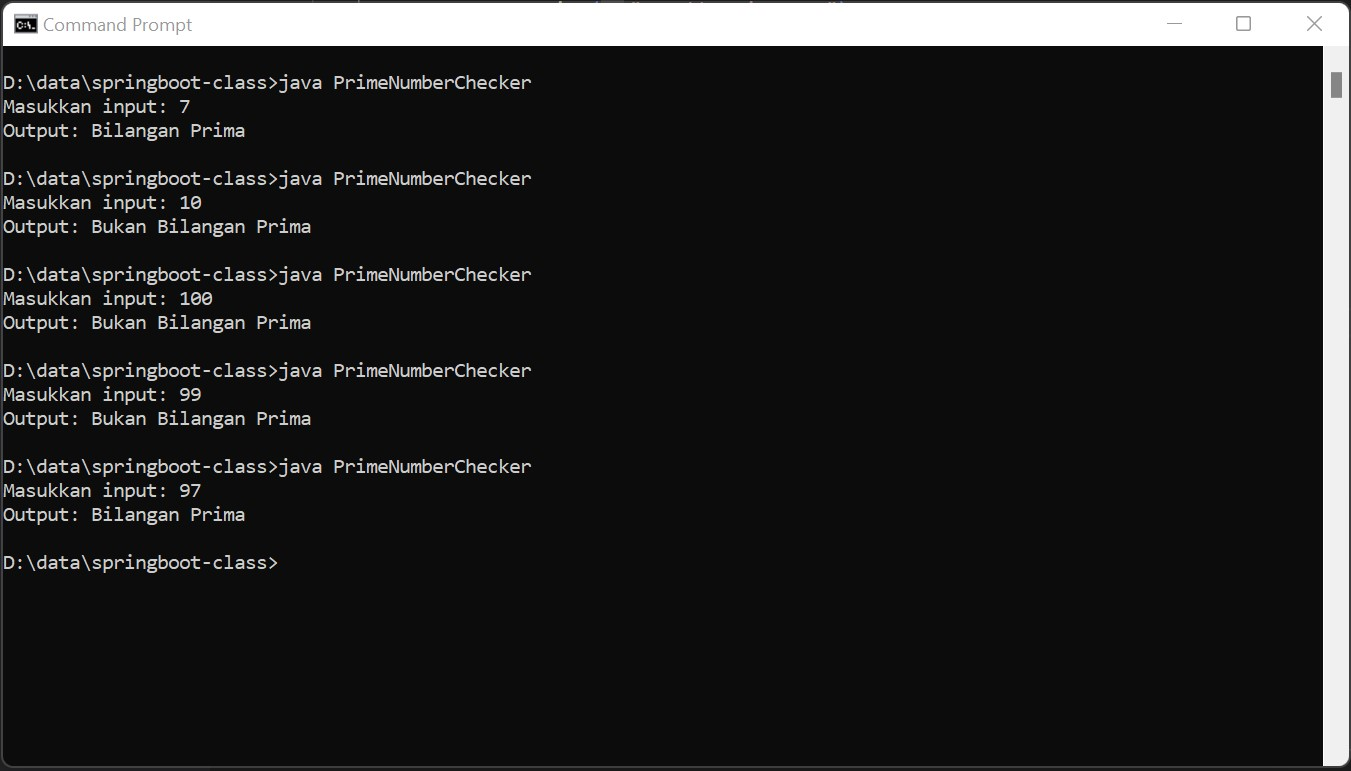
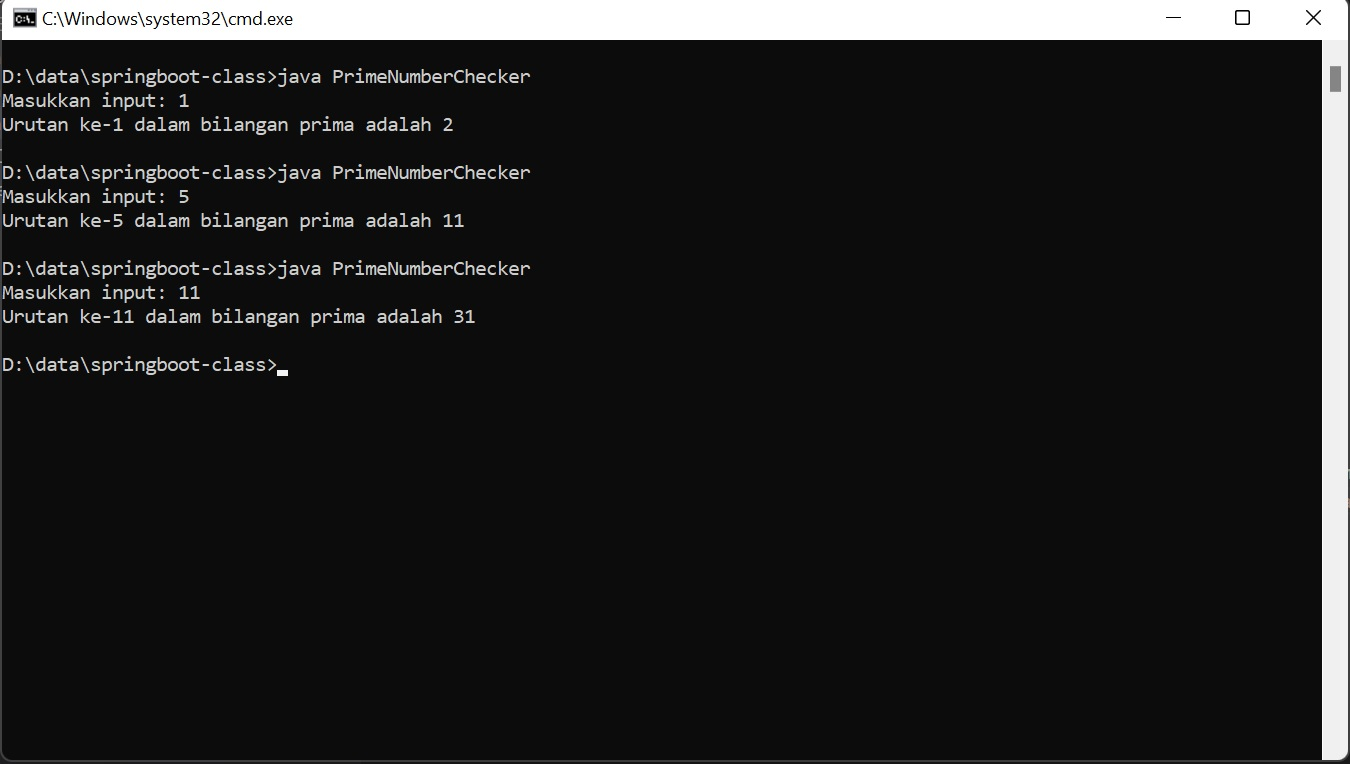
Creata a function to check prime number

diff --git a/PrimeNumberChecker.java b/PrimeNumberChecker.java
@@ -1,19 +1,32 @@
 import java.util.Scanner;
+import java.util.ArrayList;
 
 public class PrimeNumberChecker {    
+    static boolean isPrime(int n){
+        if(n==1||n==0)return false;
+        for(int i=2; i<n; i++){
+            if(n%i==0) return false;
+        }
+        return true;
+    }
+
+    public static ArrayList<Integer> populatePrimeNumber(int limit){
+        ArrayList<Integer> primeNumbers = new ArrayList<Integer>();
+        int i = 1;
+        while(primeNumbers.size() <= limit){
+            if(isPrime(i)) primeNumbers.add(i);
+            i++;
+        }
+        return primeNumbers;
+    }
+
     public static void main(String[] args) {
         Scanner input = new Scanner(System.in);
         System.out.print("Masukkan input: ");
         int intGiven = input.nextInt();
         input.close();
 
-        int divisibleCounter = 0;
-        
-        for(int i = 1; i <= intGiven; i++) {
-            if (intGiven % i == 0) divisibleCounter++;
-        }
-
-        if(divisibleCounter == 2) System.out.println("Output: Bilangan Prima");
-        else System.out.println("Output: Bukan Bilangan Prima");
+        ArrayList<Integer> primeNumbers = new ArrayList<Integer>(populatePrimeNumber(intGiven));
+        System.out.println("Urutan ke-" + intGiven + " dalam bilangan prima adalah " + primeNumbers.get(intGiven - 1));
     }    
 }   
